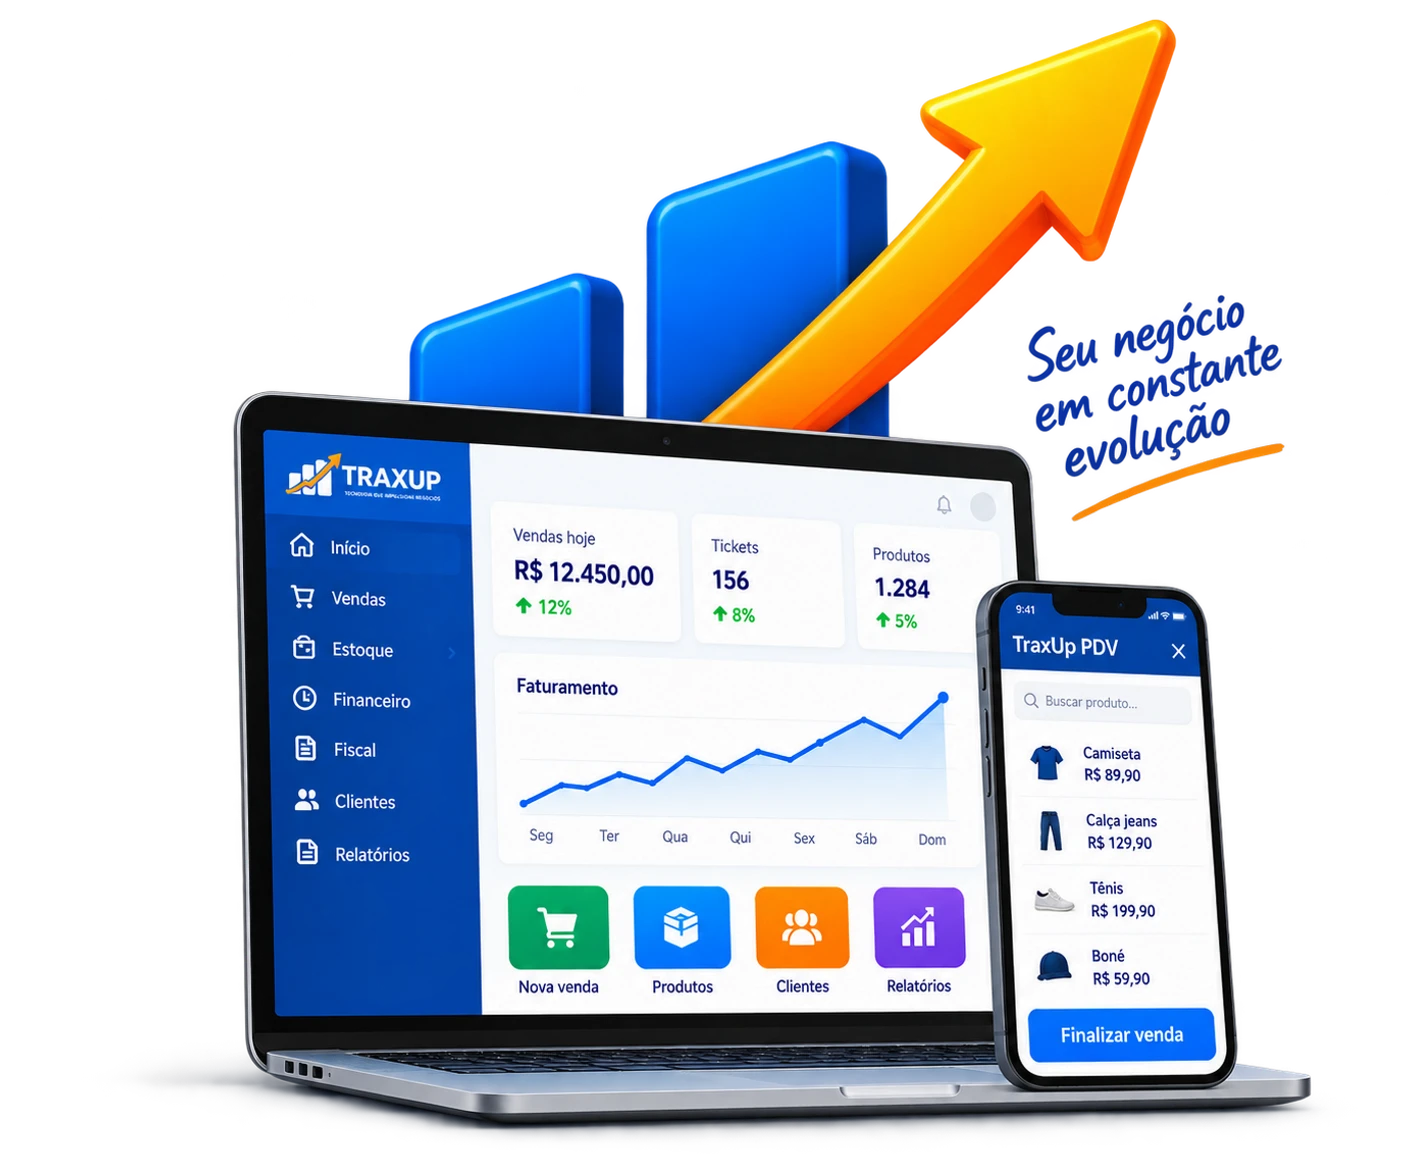
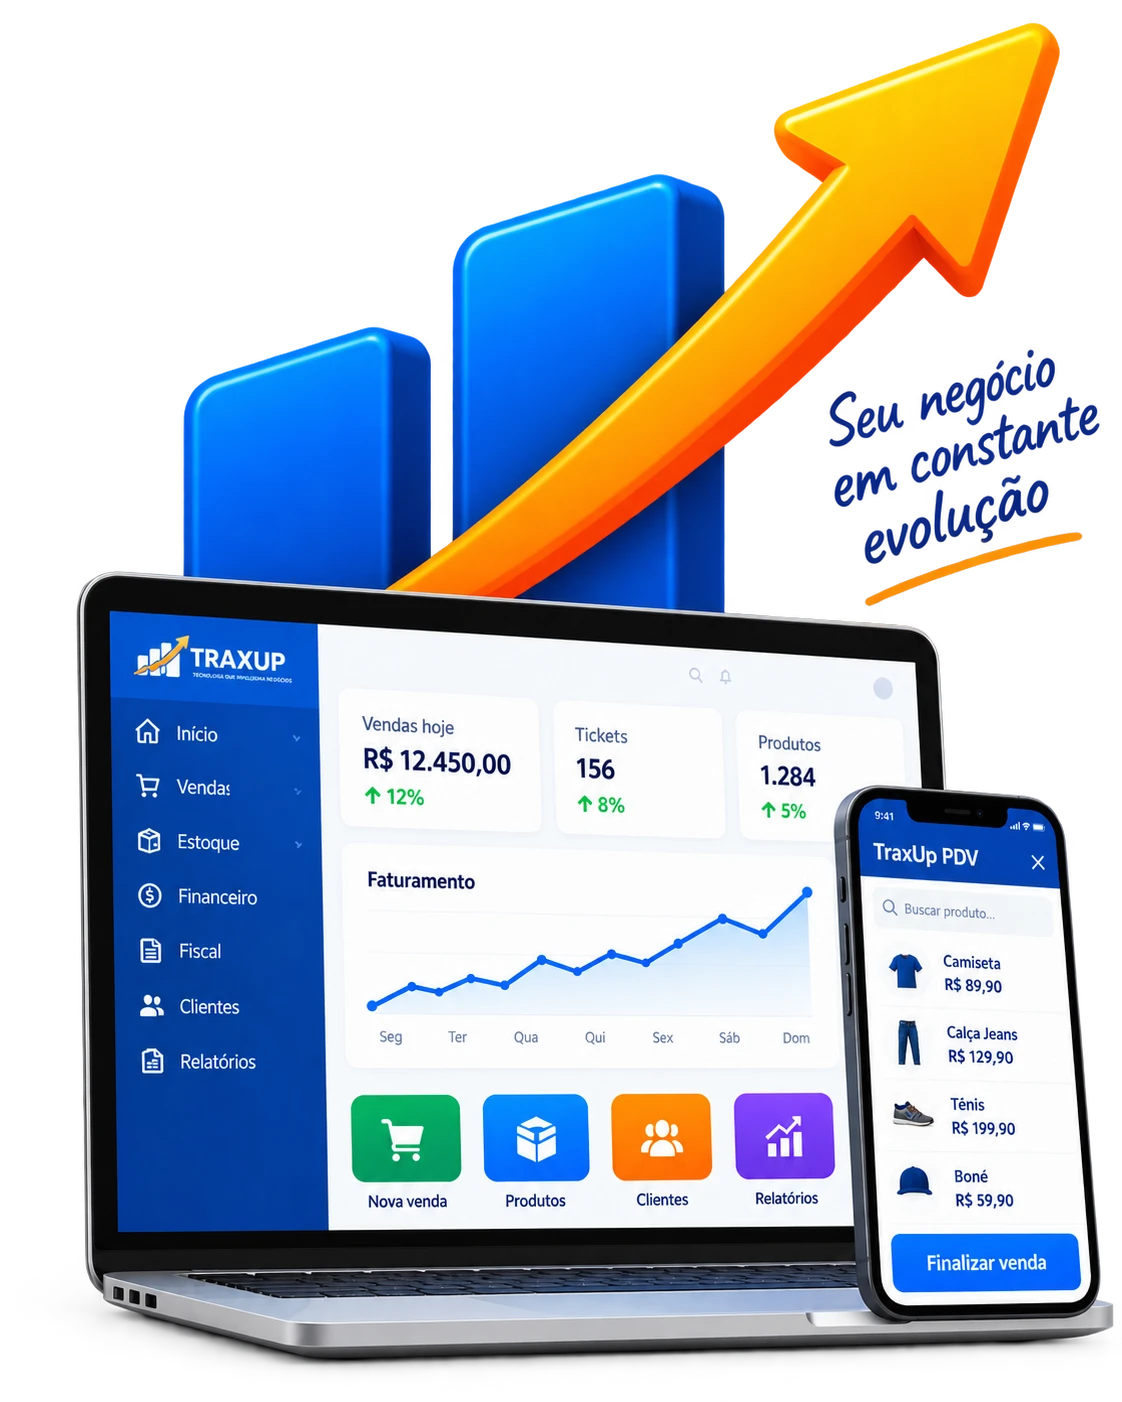
fix: match reference artwork proportions and remove literal newline artifacts

diff --git a/tplug-erp/frontend/src/app/trial.component.css b/tplug-erp/frontend/src/app/trial.component.css
@@ -2,14 +2,14 @@
 .trial-page { min-height:100vh; background:white; color:#07134f; font-family:Arial,sans-serif; }
 button { cursor:pointer; font:inherit; }
 .top { min-height:88px; padding:10px 3.7%; display:flex; align-items:center; gap:5%; }
-.top img { display:block; width:clamp(190px,17vw,340px); height:66px; object-fit:contain; }
+.top img { display:block; width:clamp(190px,17vw,340px); height:76px; object-fit:cover; }
 .top nav,.actions { display:flex; align-items:center; gap:clamp(20px,2.5vw,50px); }
 .top button { border:0; background:none; color:inherit; font-size:clamp(14px,1.05vw,20px); }
 .actions { margin-left:auto; }
 .actions .enter { color:#005bcc; font-weight:700; }
 .actions .test { color:white; background:linear-gradient(#ffa400,#ff6500); border-radius:9px; padding:17px 30px; font-weight:700; }
 .hero { display:grid; grid-template-columns:minmax(0,65.5fr) minmax(0,34.5fr); background:radial-gradient(ellipse at 56% 40%,#d7efff,transparent 48%),linear-gradient(120deg,#f6fcff,#eff8ff); }
-.marketing { position:relative; display:grid; grid-template-columns:minmax(0,49fr) minmax(0,51fr); align-items:center; min-width:0; padding:clamp(35px,3.5vw,74px) 0 clamp(35px,3vw,64px) 3.7vw; }
+.marketing { position:relative; display:grid; grid-template-columns:minmax(0,49fr) minmax(0,51fr); align-items:center; min-width:0; padding:clamp(35px,3.5vw,74px) 0 clamp(20px,1vw,24px) 3.7vw; }
 .marketing-copy { position:relative; z-index:1; align-self:start; }
 .kicker { white-space:nowrap; color:#0564cd; font-size:clamp(10px,1vw,19px); font-weight:700; letter-spacing:.18em; margin:0 0 22px; }
 .marketing h1 { width:130%; font-size:clamp(42px,3.95vw,81px); line-height:.99; letter-spacing:-.035em; margin:0 0 24px; }
@@ -31,7 +31,7 @@ button { cursor:pointer; font:inherit; }
 .modules b { font-size:clamp(12px,.95vw,19px); }
 .modules small { margin-top:6px; color:#4b5972; font-size:clamp(10px,.7vw,14px); line-height:1.5; }
 .product-art { position:relative; margin:0; align-self:end; pointer-events:none; }
-.product-art img { display:block; width:100%; height:auto; }
+.product-art img { display:block; width:100%; height:auto; max-height:37vw; object-fit:contain; }
 .signup { padding:8px 1.4vw 14px 0; display:flex; align-items:center; min-width:0; }
 .trial-card { width:100%; background:white; border-radius:19px; padding:clamp(24px,1.8vw,38px) clamp(20px,1.6vw,34px); box-shadow:0 8px 35px #235ca50c; border:1px solid #edf2f7; }
 .trial-card h2 { font-size:clamp(26px,2vw,41px); letter-spacing:-.035em; text-align:center; margin:0 0 8px; line-height:1.12; }
@@ -46,7 +46,7 @@ button { cursor:pointer; font:inherit; }
 .terms u { color:#005da5; }
 .create { width:100%; min-height:56px; border:0; border-radius:8px; background:linear-gradient(#ffa500,#ff6500); color:white; font-size:clamp(17px,1.3vw,26px); font-weight:700; padding:14px 10px; }
 .create span { font-weight:400; margin-left:8px; }
-.create:disabled { cursor:not-allowed; filter:saturate(.8); opacity:.65; }
+.create:disabled { cursor:not-allowed; opacity:.85; }
 .existing { display:flex; align-items:center; justify-content:center; gap:6px; margin:24px 0 26px; color:#546075; font-size:clamp(12px,.9vw,18px); }
 .existing::before,.existing::after { content:''; flex:1; height:1px; background:#d6dce5; }
 .existing button { background:none; color:#005dc6; border:0; font-weight:700; padding:0 3px; }
@@ -67,6 +67,7 @@ button { cursor:pointer; font:inherit; }
 footer { display:flex; justify-content:space-between; gap:20px; min-height:55px; align-items:center; padding:16px 3.7%; background:linear-gradient(110deg,#03449e,#0064e0); color:#deeeff; letter-spacing:.18em; font-size:clamp(9px,.64vw,13px); line-height:1.5; }
 @media (min-width:1800px) { .hero { min-height:42vw; }.checks { gap:22px; }.grid { row-gap:30px; }.trial-card>p { margin-bottom:32px; } }
 @media (max-width:1300px) and (min-width:1101px) { .modules { grid-template-columns:repeat(2,minmax(0,1fr)); gap:20px 10px; }.marketing h1 { font-size:3.8vw; }.checks { width:100%; gap:10px; }.steps { gap:12px; padding-inline:24px; }.steps>div:not(.ai) { gap:10px; }.robot { display:none; }.ai { padding:15px; } }
-@media (max-width:1100px) { .top nav { display:none; }.hero { grid-template-columns:1fr; }.marketing { padding:40px 4%; }.marketing h1 { font-size:clamp(46px,6vw,65px); }.kicker { font-size:12px; }.subtitle { font-size:18px; }.checks { width:100%; }.checks li { font-size:13px; }.modules b { font-size:15px; }.modules small { font-size:11px; }.modules { gap:24px 12px; }.product-art { margin-left:0; }.signup { padding:0 24px 35px; justify-content:center; }.trial-card { max-width:720px; padding:30px; }.trial-card h2 { font-size:32px; }.trial-card>p { font-size:18px; }.grid label { font-size:15px; }.terms { font-size:14px; }.steps { flex-wrap:wrap; gap:24px; }.steps>strong { display:none; }.steps>div:not(.ai) { flex:1 1 40%; }.steps b { font-size:16px; }.steps small { font-size:13px; }.ai { margin-left:auto; }.create { font-size:21px; } }
+@media (max-width:1100px) { .top nav { display:none; }.hero { grid-template-columns:1fr; }.marketing { padding:40px 4%; }.marketing h1 { font-size:clamp(46px,6vw,65px); }.kicker { font-size:12px; }.subtitle { font-size:18px; }.checks { width:100%; }.checks li { font-size:13px; }.modules b { font-size:15px; }.modules small { font-size:11px; }.modules { gap:24px 12px; }.product-art { margin-left:0; }.product-art img { max-height:none; }.signup { padding:0 24px 35px; justify-content:center; }.trial-card { max-width:720px; padding:30px; }.trial-card h2 { font-size:32px; }.trial-card>p { font-size:18px; }.grid label { font-size:15px; }.terms { font-size:14px; }.steps { flex-wrap:wrap; gap:24px; }.steps>strong { display:none; }.steps>div:not(.ai) { flex:1 1 40%; }.steps b { font-size:16px; }.steps small { font-size:13px; }.ai { margin-left:auto; }.create { font-size:21px; } }
+@media (min-width:701px) and (max-width:850px) { .modules { grid-template-columns:repeat(2,minmax(0,1fr)); } }
 @media (max-width:700px) { .top { min-height:76px; padding:12px 18px; gap:12px; }.top img { width:155px; height:44px; }.actions { gap:12px; }.top button { font-size:13px; }.actions .test { padding:12px; }.hero { display:flex; flex-direction:column; }.marketing { display:flex; flex-direction:column; padding:30px 22px 16px; }.marketing-copy { width:100%; }.kicker { white-space:normal; font-size:10px; line-height:1.6; margin-bottom:17px; }.marketing h1 { width:100%; font-size:clamp(34px,7.8vw,52px); line-height:1.06; margin-bottom:20px; }.subtitle { width:100%; font-size:16px; }.subtitle br { display:none; }.checks { gap:13px 18px; margin-bottom:28px; }.checks li { font-size:12px; }.modules { grid-template-columns:repeat(3,minmax(0,1fr)); gap:22px 10px; }.modules li { flex-direction:column; gap:6px; }.modules p { margin:0; }.modules i { width:46px; height:49px; }.modules b { font-size:14px; }.modules small { font-size:11px; }.product-art { width:100%; max-width:510px; margin:28px auto 0; }.signup { padding:8px 14px 28px; }.trial-card { padding:26px 20px; border-radius:16px; }.trial-card h2 { font-size:29px; }.trial-card>p { font-size:16px; margin-bottom:26px; }.grid { grid-template-columns:1fr; gap:19px; }.grid label { font-size:14px; }.grid input,.grid select { height:48px; }.terms { font-size:13px; }.existing { font-size:13px; }.lgpd { font-size:11px; }.steps { padding:26px 22px; gap:26px; }.steps>div:not(.ai) { flex-basis:100%; }.ai { margin:0 auto; }.robot { width:44px; height:44px; }footer { flex-direction:column; text-align:center; gap:10px; padding:20px; font-size:9px; } }
 @media (max-width:360px) { .top { padding-inline:12px; }.top img { width:133px; }.actions { gap:8px; }.actions .test { padding:11px 8px; }.marketing { padding-inline:18px; }.trial-card { padding-inline:16px; } }

diff --git a/tplug-erp/frontend/src/app/trial.component.html b/tplug-erp/frontend/src/app/trial.component.html
@@ -4,7 +4,7 @@
 <section class="marketing" aria-label="Conheça a TraxUp"><div class="marketing-copy">
 <p class="kicker">MAIS CONTROLE. MAIS VENDAS. UM FUTURO MAIOR.</p>
 <h1>Transforme a gestão<br>da sua empresa<br>com a <strong>TraxUp</strong></h1>
-<p class="subtitle">ERP, PDV, estoque, financeiro e fiscal integrados<br>em uma única plataforma.</p>
+<p class="subtitle">ERP, PDV, estoque, financeiro e fiscal integrados <br>em uma única plataforma.</p>
 <ul class="checks" aria-label="Benefícios do teste"><li><span aria-hidden="true">✓</span><span>7 dias grátis</span></li><li><span aria-hidden="true">✓</span><span>Sem compromisso</span></li><li><span aria-hidden="true">✓</span><span>Configuração guiada</span></li></ul>
 <ul class="modules" id="trial-modules" aria-label="Módulos integrados">
   <li><i class="erp"><app-icon name="chart" /></i><p><b>ERP</b><small>Gestão completa<br>do seu negócio</small></p></li>
@@ -14,7 +14,7 @@
   <li><i class="crm"><app-icon name="users" /></i><p><b>CRM</b><small>Relacionamento<br>que gera vendas</small></p></li>
   <li><i class="bi"><svg viewBox="0 0 32 32" fill="none" stroke="currentColor" stroke-width="2.5" aria-hidden="true"><path d="M5 28V19m7 9V15m7 13V11m7 17V5M3 15l9-7 6 2 10-8m-7 0h7v7"/></svg></i><p><b>BI</b><small>Decisões baseadas<br>em dados</small></p></li>
 </ul></div>
-<figure class="product-art"><img src="assets/trial-hero-devices.webp" width="1408" height="1161" fetchpriority="high" alt="Notebook com o painel de gestão TraxUp e celular com o PDV, diante de um gráfico azul e uma seta laranja de crescimento. Seu negócio em constante evolução."></figure>
+<figure class="product-art"><img src="assets/trial-hero-devices.webp" width="1122" height="1402" fetchpriority="high" alt="Notebook com o painel de gestão TraxUp e celular com o PDV, diante de um gráfico azul e uma seta laranja de crescimento. Seu negócio em constante evolução."></figure>
 </section>
 <section class="signup" aria-label="Cadastro do teste grátis"><div class="trial-card" *ngIf="!sucesso"><h2>Comece seu teste grátis</h2><p>Tenha acesso à plataforma por 7 dias</p><div class="alert" role="alert" *ngIf="error">{{error}}</div><form #cadastroForm="ngForm" (ngSubmit)="cadastroForm.valid && cadastrar()"><div class="grid"><label><span>Nome completo <em aria-hidden="true">*</em></span><input #nomeInput autocomplete="name" name="nomeCompleto" [(ngModel)]="nomeCompleto" required placeholder="Seu nome completo"></label><label><span>Nome da empresa <em aria-hidden="true">*</em></span><input autocomplete="organization" name="nomeEmpresa" [(ngModel)]="nomeEmpresa" required placeholder="Nome da empresa"></label><label><span>Razão social <em aria-hidden="true">*</em></span><input name="razaoSocial" [(ngModel)]="razaoSocial" required placeholder="Razão social da empresa"></label><label><span>CNPJ/CPF <em aria-hidden="true">*</em></span><input inputmode="numeric" name="documento" [(ngModel)]="documento" required placeholder="00.000.000/0000-00"></label><label><span>Telefone/WhatsApp <em aria-hidden="true">*</em></span><input type="tel" autocomplete="tel" name="telefone" [(ngModel)]="telefone" required placeholder="🇧🇷  (11) 96123-4567"></label><label><span>E-mail profissional <em aria-hidden="true">*</em></span><input name="email" type="email" autocomplete="email" [(ngModel)]="email" required placeholder="seu@empresa.com.br"></label><label><span>Segmento da empresa <em aria-hidden="true">*</em></span><select name="segmento" [(ngModel)]="segmento" required><option value="">Selecione o segmento</option><option>Varejo</option><option>Atacado</option><option>Serviços</option><option>Alimentação</option><option>Outros</option></select></label><label><span>Quantidade de lojas <em aria-hidden="true">*</em></span><select name="quantidadeLojas" [(ngModel)]="quantidadeLojas" required><option [ngValue]="null">Selecione</option><option [ngValue]="1">1</option><option [ngValue]="2">2</option><option [ngValue]="3">3</option><option [ngValue]="5">4 ou mais</option></select></label></div><label class="terms"><input name="aceitouTermos" type="checkbox" [(ngModel)]="aceitouTermos"> <span>Li e aceito os <u>Termos de Uso</u> e a <u>Política de Privacidade</u>.</span></label><button class="create" type="submit" [disabled]="loading||!aceitouTermos">{{loading?'Criando sua conta...':'Criar minha conta grátis'}} <span>→</span></button><div class="existing">Já possui uma conta? <button type="button" (click)="voltarLogin.emit()">Entrar</button></div><small class="lgpd"><app-icon name="lock" /> Seus dados protegidos conforme a LGPD</small></form></div><div class="trial-card success" *ngIf="sucesso"><h2>Seu teste começou!</h2><p>Agora crie a senha do administrador.</p><button class="create" type="button" (click)="ativacaoToken ? ativarAdmin.emit(ativacaoToken) : voltarLogin.emit()">Continuar →</button></div></section>
 </main>

diff --git a/tplug-erp/frontend/src/app/app.component.html b/tplug-erp/frontend/src/app/app.component.html
@@ -1,4 +1,5 @@
-<app-ativacao-admin *ngIf="!autenticado && ativacaoAdminToken" [token]="ativacaoAdminToken" (concluida)="concluirAtivacaoAdmin()"></app-ativacao-admin>\n<app-trial *ngIf="!autenticado && exibindoTrial && !ativacaoAdminToken" (voltarLogin)="exibindoTrial = false" (ativarAdmin)="iniciarAtivacaoAdmin($event)"></app-trial>
+<app-ativacao-admin *ngIf="!autenticado && ativacaoAdminToken" [token]="ativacaoAdminToken" (concluida)="concluirAtivacaoAdmin()"></app-ativacao-admin>
+<app-trial *ngIf="!autenticado && exibindoTrial && !ativacaoAdminToken" (voltarLogin)="exibindoTrial = false" (ativarAdmin)="iniciarAtivacaoAdmin($event)"></app-trial>
 <div class="login-shell" *ngIf="!autenticado && !exibindoTrial && !ativacaoAdminToken">
   <section class="login-brand" aria-label="TRAXUP ERP">
     <img class="login-logo" src="assets/traxup-logo.webp" alt="TRAXUP — Tecnologia que impulsiona negócios" width="240" height="160">
@@ -20,7 +21,9 @@
   </div></section>
 </div>
 
-<app-onboarding *ngIf="autenticado && onboardingPendente" (concluido)="onboardingConcluido()"></app-onboarding>\n\n<div class="app-shell" *ngIf="autenticado && !onboardingPendente" [class.nav-collapsed]="menuRecolhido">
+<app-onboarding *ngIf="autenticado && onboardingPendente" (concluido)="onboardingConcluido()"></app-onboarding>
+
+<div class="app-shell" *ngIf="autenticado && !onboardingPendente" [class.nav-collapsed]="menuRecolhido">
   <aside class="sidebar"><div class="brand"><img src="assets/traxup-logo.webp" alt="TRAXUP" width="186" height="124"></div><nav aria-label="Menu principal"><button *ngFor="let item of menu" type="button" class="nav-link" [class.active]="area === item.area" [attr.aria-label]="item.label" (click)="navegar(item.area)" [disabled]="!item.area"><app-icon [name]="item.icon" /><span>{{ item.label }}</span><small *ngIf="!item.area">Em breve</small></button></nav><button class="logout" (click)="sair()" [disabled]="logoutLoading">{{ logoutLoading ? 'Saindo...' : 'Sair' }}</button></aside>
   <main><div class="workspace-bar"><button class="menu-toggle" (click)="menuRecolhido = !menuRecolhido" aria-label="Alternar menu"><app-icon name="menu" /></button><span class="workspace-context"><app-icon name="home" /> Minha operação</span><span class="workspace-scope" *ngIf="filialAtiva">{{ filialAtiva.empresaNome }} · {{ filialAtiva.nome }}</span><button type="button" class="text-action" *ngIf="filiais.length > 1" (click)="trocarFilial()">Trocar filial</button><span class="environment-badge">Homologação</span></div>
     <section class="card panel" *ngIf="selecionandoFilial"><div class="panel-title"><div><p class="eyebrow">Empresa / filial</p><h1>Escolha onde deseja trabalhar</h1></div></div><div class="alert" role="alert" *ngIf="filiaisError">{{ filiaisError }}</div><p *ngIf="filiaisLoading">Carregando filiais...</p><div class="stack" *ngIf="!filiaisLoading"><button type="button" class="secondary" *ngFor="let filial of filiais" (click)="escolherFilial(filial)"><strong>{{ filial.nome }}</strong> · {{ filial.empresaNome }}</button><p class="empty" *ngIf="filiais.length === 0 && !filiaisError">Nenhuma filial disponível para este usuário.</p></div></section>

diff --git a/tplug-erp/frontend/src/index.html b/tplug-erp/frontend/src/index.html
@@ -5,7 +5,13 @@
   <title>TRAXUP ERP | Homologação</title>
   <base href="/">
   <meta name="viewport" content="width=device-width, initial-scale=1">
-  <meta name="theme-color" content="#075fd8">\n  <meta name="description" content="TRAXUP ERP e PDV - teste grátis por 7 dias">\n  <meta name="apple-mobile-web-app-capable" content="yes">\n  <meta name="apple-mobile-web-app-status-bar-style" content="default">\n  <meta name="apple-mobile-web-app-title" content="TRAXUP">\n  <link rel="manifest" href="/manifest.webmanifest">\n  <link rel="apple-touch-icon" href="/assets/traxup-logo.webp">
+  <meta name="theme-color" content="#075fd8">
+  <meta name="description" content="TRAXUP ERP e PDV - teste grátis por 7 dias">
+  <meta name="apple-mobile-web-app-capable" content="yes">
+  <meta name="apple-mobile-web-app-status-bar-style" content="default">
+  <meta name="apple-mobile-web-app-title" content="TRAXUP">
+  <link rel="manifest" href="/manifest.webmanifest">
+  <link rel="apple-touch-icon" href="/assets/traxup-logo.webp">
 </head>
 <body>
   <app-root></app-root>
